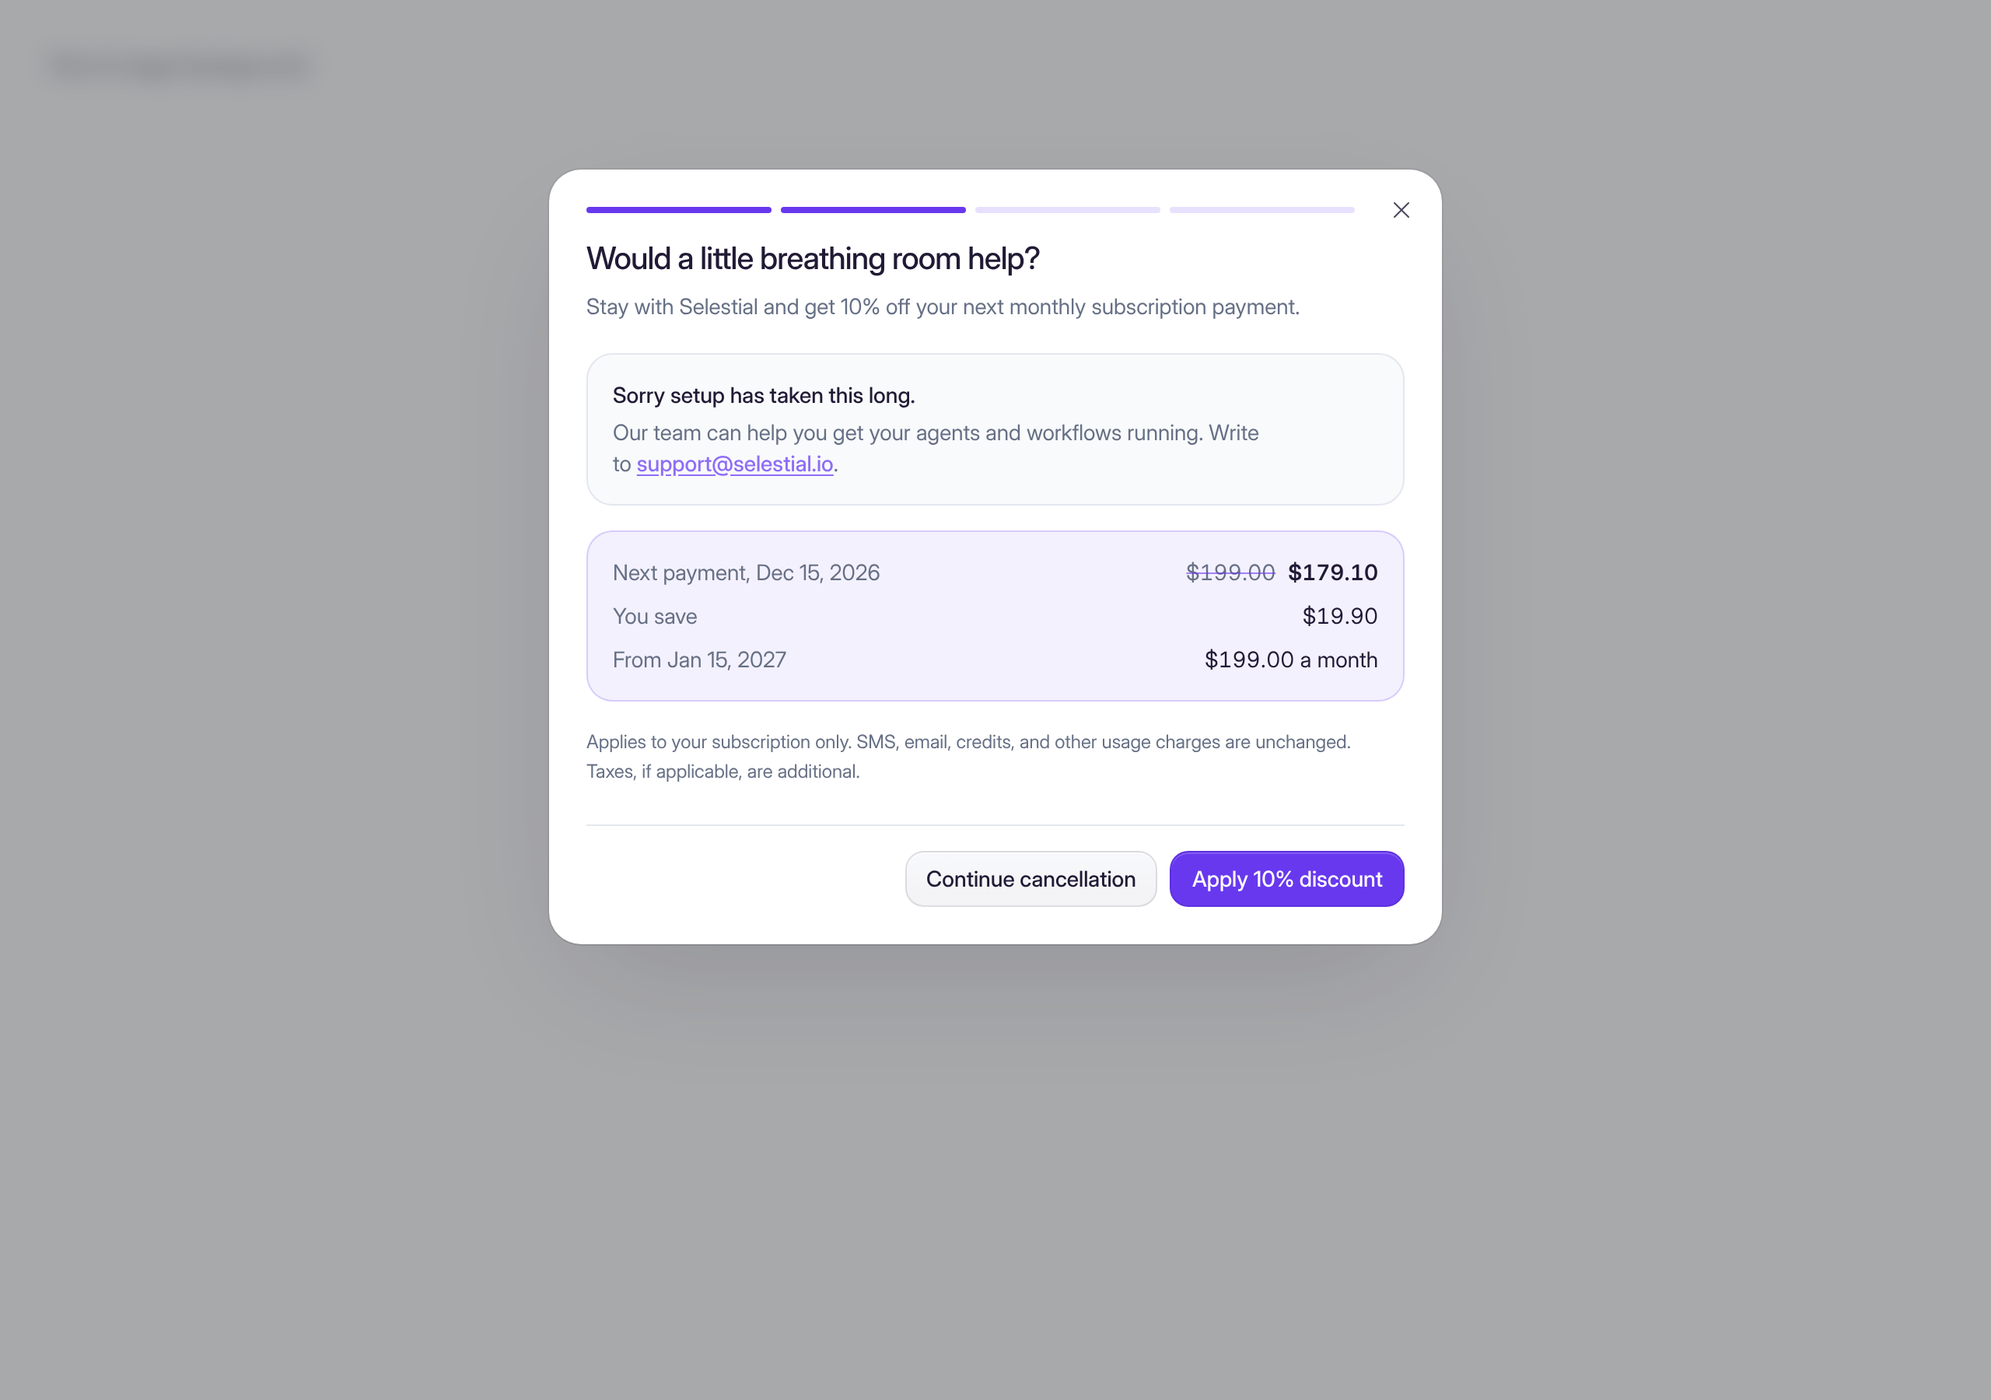
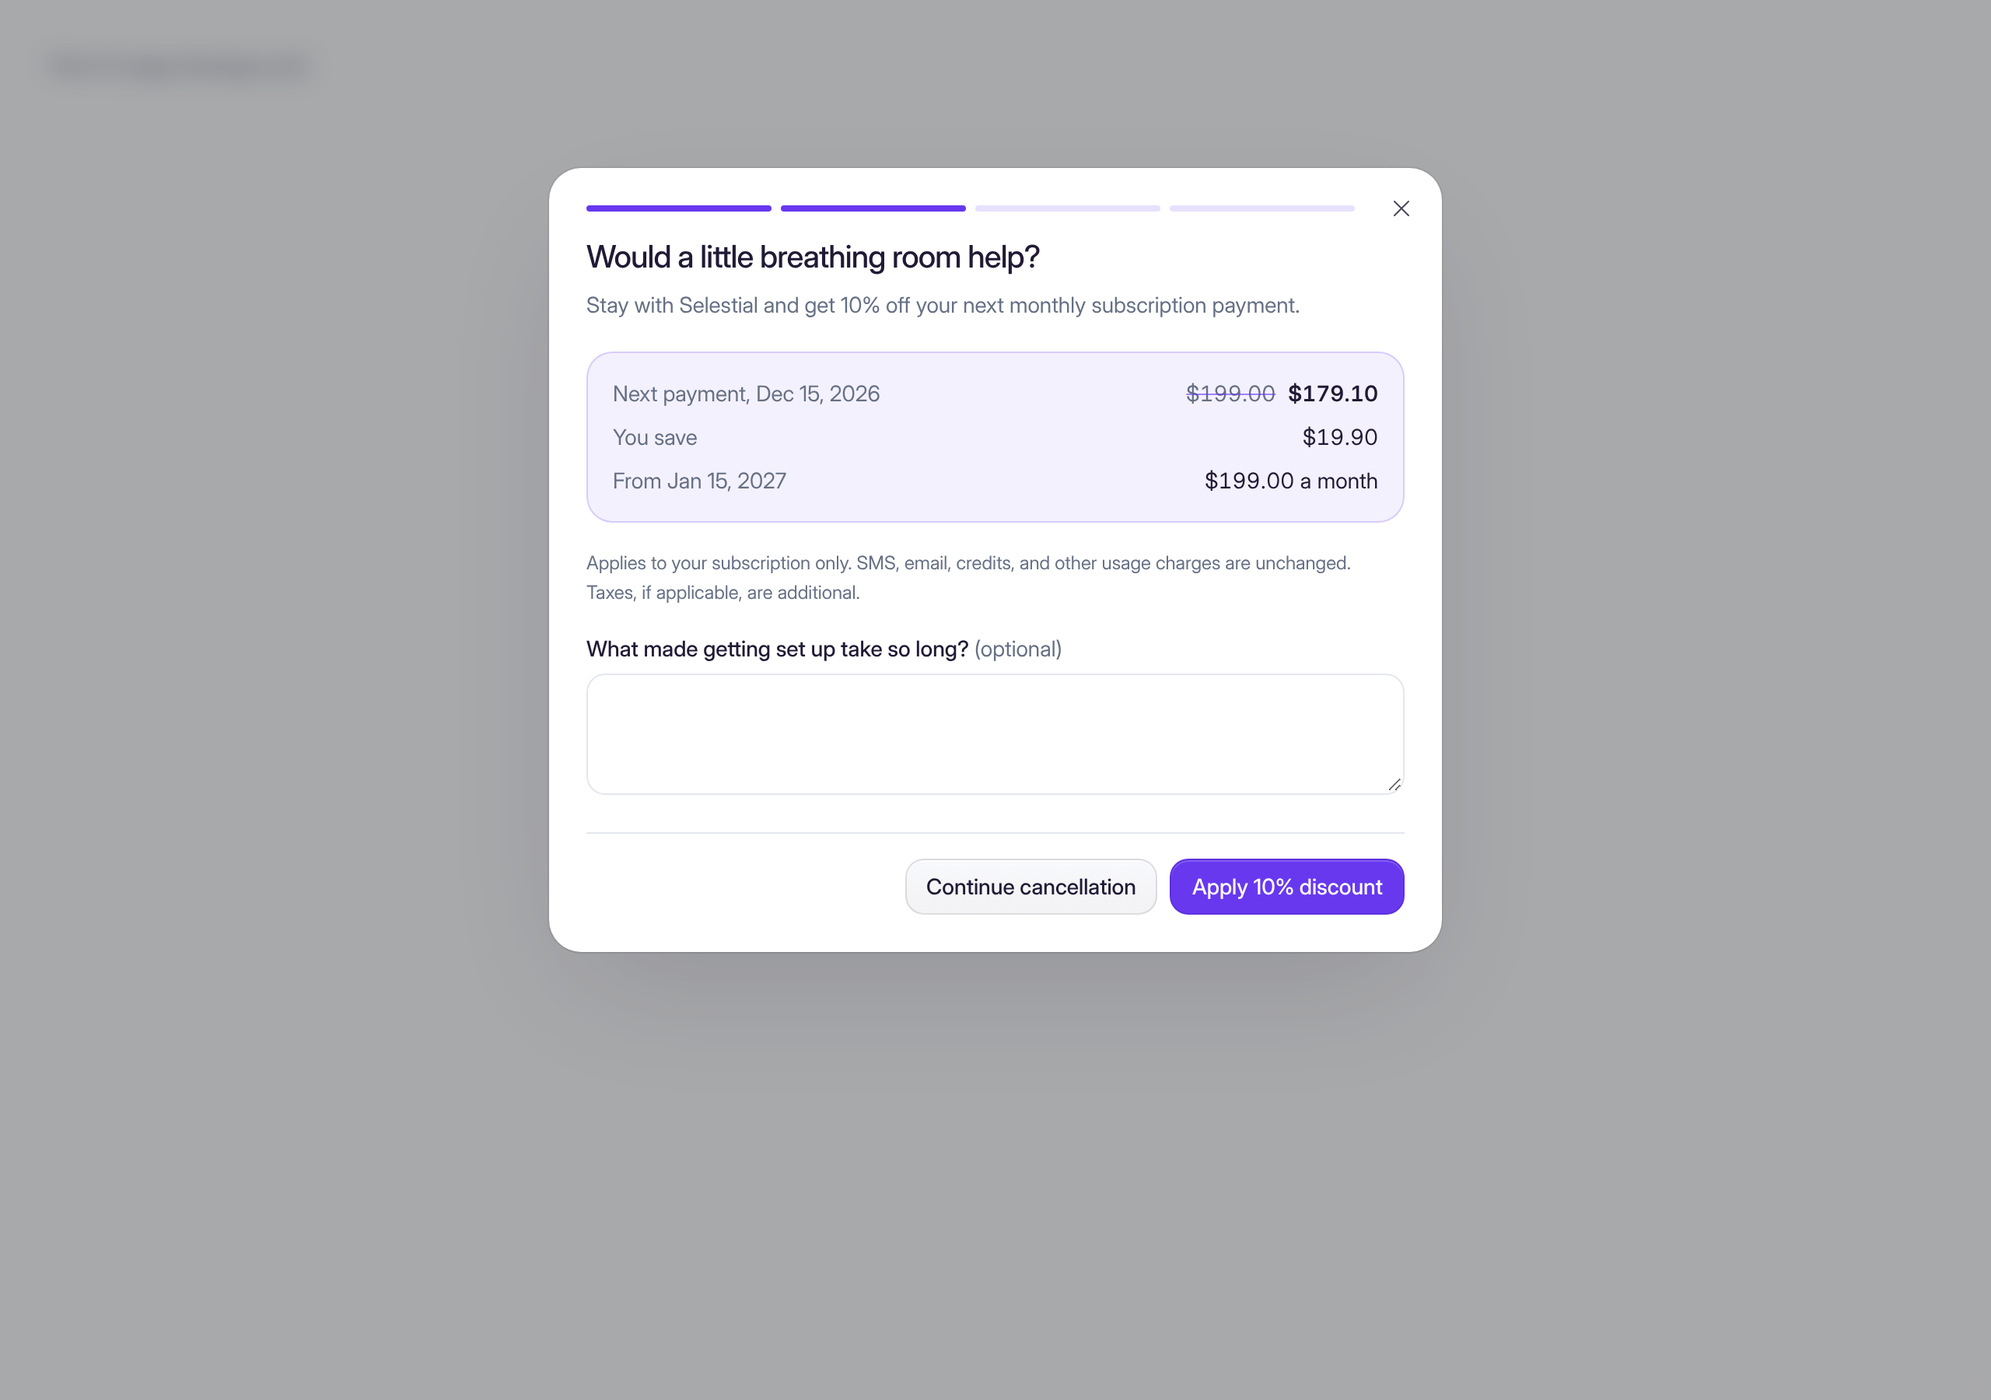
Ask setup and reliability leavers what went wrong beside the discount, instead of pointing them to support.
- An optional follow-up question for "setup took too long" and "something isn't working reliably": beside
  the 10% offer, or on the confirmation when no offer can be made. Kept on the flow and shown to staff.
- Records the Owner's decisions in docs/billing/05-cancellation.md: offers across the end of the
  early-user year once verified, the Owner runs the sandbox checks, and the Privacy Notice is reworded
  (proposed wording only, not published until counsel reviews it).

Claude-Session: https://claude.ai/code/session_01Sf3o7fXsPtbwTN33hQ27sU

diff --git a/src/components/app/billing/cancel-flow.tsx b/src/components/app/billing/cancel-flow.tsx
@@ -81,7 +81,7 @@ function FlowBody({ onClose }: { onClose: () => void }) {
 
 /** What the steps can ask of the server. The connected dialog sends each to Convex; a preview can stub them. */
 export type FlowActions = {
-  answer: (input: { step: "reason" | "need" | "skip"; code?: string; note?: string }) => Promise<unknown>;
+  answer: (input: { step: "reason" | "need" | "detail" | "skip"; code?: string; note?: string }) => Promise<unknown>;
   seen: (offerId: "save10_once" | "save15_three", outcome: "viewed" | "declined") => Promise<unknown>;
   keep: () => Promise<unknown>;
   accept: (offerId: "save10_once" | "save15_three", version: string) => Promise<unknown>;
@@ -128,6 +128,9 @@ export function CancelFlowSteps({ flow, actions, onClose, initialStep = "reason"
   const [reasonNote, setReasonNote] = useState("");
   const [need, setNeed] = useState<StayNeed | null>(null);
   const [needNote, setNeedNote] = useState("");
+  // The follow-up for setup or reliability reasons: asked once, beside the first offer or, without one, on the confirmation.
+  const [detail, setDetail] = useState("");
+  const [detailSaved, setDetailSaved] = useState("");
   const [busy, setBusy] = useState(false);
   const [error, setError] = useState<string | null>(null);
   const [reactivating, setReactivating] = useState(false);
@@ -170,6 +173,14 @@ export function CancelFlowSteps({ flow, actions, onClose, initialStep = "reason"
   useEffect(() => {
     if (current === "offer10" || current === "offer15") void seen(current === "offer10" ? "save10_once" : "save15_three", "viewed").catch(() => undefined);
   }, [current, seen]);
+
+  const saveDetail = async () => {
+    const text = detail.trim();
+    if (!flow.detail || !text || text === detailSaved) return;
+    await actions.answer({ step: "detail", note: text }).catch(() => undefined);
+    setDetailSaved(text);
+  };
+  const detailField = flow.detail ? <Note label={flow.detail.question} value={detail} onChange={setDetail} /> : null;
 
   const toConfirm = async (from: "reason" | "need" | "offer") => {
     if (from !== "offer") await actions.answer({ step: "skip" }).catch(() => undefined);
@@ -223,7 +234,6 @@ export function CancelFlowSteps({ flow, actions, onClose, initialStep = "reason"
       const first = offer.renewals[0];
       return (
         <Frame title="Would a little breathing room help?" description="Stay with Selestial and get 10% off your next monthly subscription payment." progress={2}>
-          <SupportNote flow={flow} />
           <div className="rounded-xl border border-brand-500/20 bg-brand-500/[0.07] p-4">
             <dl className="grid gap-2 text-sm">
               <Row label={`Next payment, ${shortDate(first.at)}`}>
@@ -238,13 +248,14 @@ export function CancelFlowSteps({ flow, actions, onClose, initialStep = "reason"
             </dl>
           </div>
           <Disclosure />
+          {detailField}
           {stale ? <p className="text-xs text-muted-foreground" role="status">Refreshing these terms…</p> : null}
           <FormError message={error} />
           <Actions>
-            <Button variant="outline" onClick={() => void decline("save10_once").then(() => setStep(flow.offers.save15_three.eligible ? "need" : "confirm"))}>
+            <Button variant="outline" onClick={() => void saveDetail().then(() => decline("save10_once")).then(() => setStep(flow.offers.save15_three.eligible ? "need" : "confirm"))}>
               Continue cancellation
             </Button>
-            <Button variant="default" loading={busy} disabled={stale} onClick={() => void run(async () => { await actions.accept("save10_once", offer.version); setStep("applying"); })}>
+            <Button variant="default" loading={busy} disabled={stale} onClick={() => void run(async () => { await saveDetail(); await actions.accept("save10_once", offer.version); setStep("applying"); })}>
               Apply 10% discount
             </Button>
           </Actions>
@@ -406,7 +417,7 @@ export function CancelFlowSteps({ flow, actions, onClose, initialStep = "reason"
       const waiting = current === "canceling" && !failed;
       return (
         <Frame title="Cancel your Selestial subscription?" description="Here’s exactly what happens.">
-          <SupportNote flow={flow} />
+          {flow.offers.save10_once.eligible ? null : detailField}
           <dl className="grid gap-3 text-sm">
             <Fact label="Your subscription">
               {plan.name}
@@ -438,7 +449,7 @@ export function CancelFlowSteps({ flow, actions, onClose, initialStep = "reason"
             <Button variant="outline" disabled={waiting} onClick={() => void keepIt()}>
               Keep subscription
             </Button>
-            <Button variant="destructive" loading={busy || waiting} onClick={() => void run(async () => { await actions.cancel(); setStep("canceling"); })}>
+            <Button variant="destructive" loading={busy || waiting} onClick={() => void run(async () => { await saveDetail(); await actions.cancel(); setStep("canceling"); })}>
               {failed ? "Try again" : "Confirm cancellation"}
             </Button>
           </Actions>
@@ -571,24 +582,6 @@ function Pending() {
     <div role="status" className="flex items-center gap-3 rounded-xl border border-border bg-muted/40 px-4 py-3 text-sm text-muted-foreground">
       <span aria-hidden className="size-4 animate-spin rounded-full border-2 border-brand-500 border-t-transparent motion-reduce:animate-none" />
       Waiting for billing to confirm…
-    </div>
-  );
-}
-
-/** Setup or reliability: a discount doesn't fix that, so it says so and points to people who can help. */
-function SupportNote({ flow }: { flow: Flow }) {
-  if (!flow.support.forReason) return null;
-  const setup = flow.reason === "setup_time";
-  return (
-    <div className="rounded-xl border border-border bg-muted/40 p-4 text-sm">
-      <p className="font-medium text-strong">{setup ? "Sorry setup has taken this long." : "Sorry things haven’t been working reliably."}</p>
-      <p className="mt-1 text-muted-foreground">
-        {setup ? "Our team can help you get your agents and workflows running." : "Tell us what went wrong and our team will look into it."} Write to{" "}
-        <a className="font-medium text-brand-600 underline underline-offset-2" href={`mailto:${flow.support.email}?subject=${encodeURIComponent(setup ? "Help with setup" : "Something isn't working")}`}>
-          {flow.support.email}
-        </a>
-        .
-      </p>
     </div>
   );
 }

diff --git a/convex/cancellation.ts b/convex/cancellation.ts
@@ -29,6 +29,7 @@ import {
   CANCEL_REASON_WORDS,
   CANCEL_REASONS,
   customerWords,
+  DETAIL_QUESTIONS,
   hasCoupon,
   INELIGIBLE_WORDS,
   OFFER_IDS,
@@ -40,7 +41,6 @@ import {
   RETENTION_POLICY,
   STAY_NEED_WORDS,
   STAY_NEEDS,
-  SUPPORT_REASONS,
   type EligibilityInput,
   type Ineligible,
   type OfferId,
@@ -231,7 +231,7 @@ export const recheck = ownerMutation({
 export const answer = ownerMutation({
   args: {
     flowId: v.id("cancelFlows"),
-    step: v.union(v.literal("reason"), v.literal("need"), v.literal("skip")),
+    step: v.union(v.literal("reason"), v.literal("need"), v.literal("detail"), v.literal("skip")),
     code: v.optional(v.string()),
     note: v.optional(v.string()),
   },
@@ -241,6 +241,11 @@ export const answer = ownerMutation({
     const now = Date.now();
     if (args.step === "skip") {
       await ctx.db.patch(flow._id, { skipped: true, updatedAt: now });
+      return null;
+    }
+    if (args.step === "detail") {
+      if (!flow.reason || !DETAIL_QUESTIONS[flow.reason]) throw userError("There is no follow-up question for this answer.");
+      await ctx.db.patch(flow._id, { reasonDetail: note, updatedAt: now });
       return null;
     }
     if (args.step === "reason") {
@@ -385,7 +390,9 @@ export const flow = ownerQuery({
       outcome: flow.outcome ?? null,
       /** Stripe is still being read: the offers aren't decided yet. */
       checking: offersOn() && flow.factsAskedAt !== undefined && (!facts || facts.fetchedAt < flow.factsAskedAt),
-      support: { email: SUPPORT_EMAIL, forReason: flow.reason ? SUPPORT_REASONS.includes(flow.reason) : false },
+      support: { email: SUPPORT_EMAIL },
+      /** The follow-up question for setup or reliability reasons, shown beside the offer, and its answer so far. */
+      detail: flow.reason && DETAIL_QUESTIONS[flow.reason] ? { question: DETAIL_QUESTIONS[flow.reason]!, answer: flow.reasonDetail ?? null } : null,
       plan: {
         name: plan?.name ?? (account?.plan === "expand" ? "Expand" : "Operate"),
         monthlyCents: plan?.cents ?? null,
@@ -785,7 +792,7 @@ export const report = staffQuery({
         projectedCents: applied.reduce((sum, row) => sum + remaining(row.renewals, now).reduce((s, r) => s + r.totalCents, 0), 0),
       },
       retention,
-      recent: flows.slice(0, 50).map((row) => ({ id: row._id, company: companies.get(row.companyId) ?? "", at: row.startedAt, reason: row.reason ? CANCEL_REASON_WORDS[row.reason] : null, reasonNote: row.reasonNote ?? null, need: row.need ? STAY_NEED_WORDS[row.need] : null, needNote: row.needNote ?? null, outcome: row.outcome ?? null, skipped: row.skipped ?? false })),
+      recent: flows.slice(0, 50).map((row) => ({ id: row._id, company: companies.get(row.companyId) ?? "", at: row.startedAt, reason: row.reason ? CANCEL_REASON_WORDS[row.reason] : null, reasonNote: row.reasonNote ?? null, reasonDetail: row.reasonDetail ?? null, need: row.need ? STAY_NEED_WORDS[row.need] : null, needNote: row.needNote ?? null, outcome: row.outcome ?? null, skipped: row.skipped ?? false })),
     };
   },
 });

diff --git a/convex/cancellation.test.ts b/convex/cancellation.test.ts
@@ -104,6 +104,9 @@ describe("cancellation and retention offers", () => {
     const s = await subscribed(t);
     const flowId = await open(s);
     await s.as.mutation(api.cancellation.answer, { companyId: s.companyId, flowId, step: "reason", code: "price_too_high", note: "Too much for a two-person team." });
+    // The follow-up question belongs to setup and reliability reasons only.
+    expect((await view(s, flowId)).detail).toBeNull();
+    expect(await refusal(s.as.mutation(api.cancellation.answer, { companyId: s.companyId, flowId, step: "detail", note: "x" }))).toMatch(/no follow-up/);
     await s.as.mutation(api.cancellation.offerSeen, { companyId: s.companyId, flowId, offerId: "save10_once", outcome: "viewed" });
     await s.as.mutation(api.cancellation.offerSeen, { companyId: s.companyId, flowId, offerId: "save10_once", outcome: "declined" });
     await s.as.mutation(api.cancellation.answer, { companyId: s.companyId, flowId, step: "need", code: "lower_price" });
@@ -337,7 +340,10 @@ describe("cancellation and retention offers", () => {
     expect(flow.cancel).toMatchObject({ stage: "failed", problem: expect.any(String) });
     expect(flow.outcome).toBeNull();
     expect(flow.reason).toBe("not_reliable");
-    expect(flow.support).toEqual({ email: "support@selestial.io", forReason: true });
+    expect(flow.support).toEqual({ email: "support@selestial.io" });
+    expect(flow.detail).toEqual({ question: "What wasn’t working reliably?", answer: null });
+    await s.as.mutation(api.cancellation.answer, { companyId: s.companyId, flowId, step: "detail", note: "Texts to cleaners went out twice." });
+    expect((await view(s, flowId)).detail).toEqual({ question: "What wasn’t working reliably?", answer: "Texts to cleaners went out twice." });
     expect(flow.plan.endsAt).toBeNull();
     expect(await notices(t, s.companyId, "cancel_scheduled")).toHaveLength(0);
   });

diff --git a/convex/lib/billing/retention.ts b/convex/lib/billing/retention.ts
@@ -52,8 +52,14 @@ export const STAY_NEED_WORDS: Record<StayNeed, string> = {
   nothing: "Nothing right now—I need to cancel.",
 };
 
-/** Reasons a discount does not fix. The screen says so plainly and points to people who can help. */
-export const SUPPORT_REASONS: readonly CancelReason[] = ["setup_time", "not_reliable"];
+/**
+ * Reasons that get one more optional question beside the offer, so Selestial learns exactly what went wrong
+ * (the Owner's decision of November 27, 2026: the discount, and this question, instead of a support note).
+ */
+export const DETAIL_QUESTIONS: Partial<Record<CancelReason, string>> = {
+  setup_time: "What made getting set up take so long?",
+  not_reliable: "What wasn’t working reliably?",
+};
 
 // ── The offers ───────────────────────────────────────────────────────────────────────────────────
 

diff --git a/src/components/staff/cancellations.tsx b/src/components/staff/cancellations.tsx
@@ -105,6 +105,7 @@ export function CancellationsPanel() {
               </p>
               {row.reason ? <p className="text-muted-foreground">{row.reason}</p> : null}
               {row.reasonNote ? <p className="text-strong">“{row.reasonNote}”</p> : null}
+              {row.reasonDetail ? <p className="text-strong">What went wrong: “{row.reasonDetail}”</p> : null}
               {row.need ? <p className="text-muted-foreground">{row.need}</p> : null}
               {row.needNote ? <p className="text-strong">“{row.needNote}”</p> : null}
             </li>

diff --git a/convex/lib/billing/schema.ts b/convex/lib/billing/schema.ts
@@ -339,6 +339,8 @@ export const cancellationTables = {
     planCents: v.union(v.number(), v.null()),
     reason: v.optional(literals(CANCEL_REASONS)),
     reasonNote: v.optional(v.string()),
+    /** The answer to the follow-up question for setup or reliability reasons (DETAIL_QUESTIONS). */
+    reasonDetail: v.optional(v.string()),
     need: v.optional(literals(STAY_NEEDS)),
     needNote: v.optional(v.string()),
     /** Skipped the questions and went straight to cancelling. */

diff --git a/docs/billing/05-cancellation.md b/docs/billing/05-cancellation.md
@@ -184,10 +184,19 @@ production):
    and how the month-12 move treats an existing discount (check 6).
 3. `RETENTION_OFFERS` stays off until checks 1–5 pass.
 
-## Decisions for the Owner
+## Decisions (the Owner, November 27, 2026)
 
-- The Privacy Notice says a company's records are deleted within 90 days when it leaves, but nothing deletes
-  them when a plan ends. The confirmation describes what actually happens; the policy needs a decision.
-- Whether the 10% offer should also appear for setup and reliability reasons (it does today, beside the support
-  note), or only the support route.
-- Whether offers that span the end of the early-user year should be allowed once verified.
+- **Setup and reliability reasons:** the discount is shown as usual, with no support note. Instead, one optional
+  question beside the offer ("What made getting set up take so long?" / "What wasn't working reliably?"), or on
+  the confirmation when no offer can be made. Stored as `cancelFlows.reasonDetail`, shown in the staff report.
+- **Offers across the end of the early-user year:** allowed once sandbox check 6 passes; then set
+  `RETENTION_ACROSS_PRICE_CHANGE=on`.
+- **Sandbox checks:** the Owner runs checks 1–6 with `scripts/retention-sandbox-check.mjs` and reports the
+  results. `RETENTION_OFFERS` stays off until then.
+- **Privacy Notice:** change the wording rather than build automatic deletion. A cancelled plan keeps its records
+  so the company can come back or export them. Proposed line for the next version (not published; it needs
+  counsel's review, then a new version in `convex/lib/trust/documents.ts` published in Staff › Trust):
+
+  > A company's records: while the company has an account with Selestial, including after its plan ends, so it
+  > can come back or export them. When the company's Owner asks us to delete the company, or its plan is
+  > cancelled for non-payment, we delete its records within 90 days, except the records this section says we keep.

diff --git a/docs/operations/07-account-closure.md b/docs/operations/07-account-closure.md
@@ -195,6 +195,9 @@ require it).
    cancels its plan itself and does not ask, still gets no clock. Deletion keeps the records in the retention
    table above, so the sentence "we delete its records" is not literally true; see "For counsel".
    *Decide:* whether a self-cancelled plan should also start the clock; counsel tightens the wording.
+   *Owner's decision (November 27, 2026):* a self-cancelled plan does **not** start the clock; the sentence is
+   reworded instead. Proposed wording, awaiting counsel and publication: docs/billing/05-cancellation.md,
+   "Decisions".
 
 2. **"Settings includes tools to export your records and to delete them."**
    `src/lib/trust/documents/terms.ts:161`.
